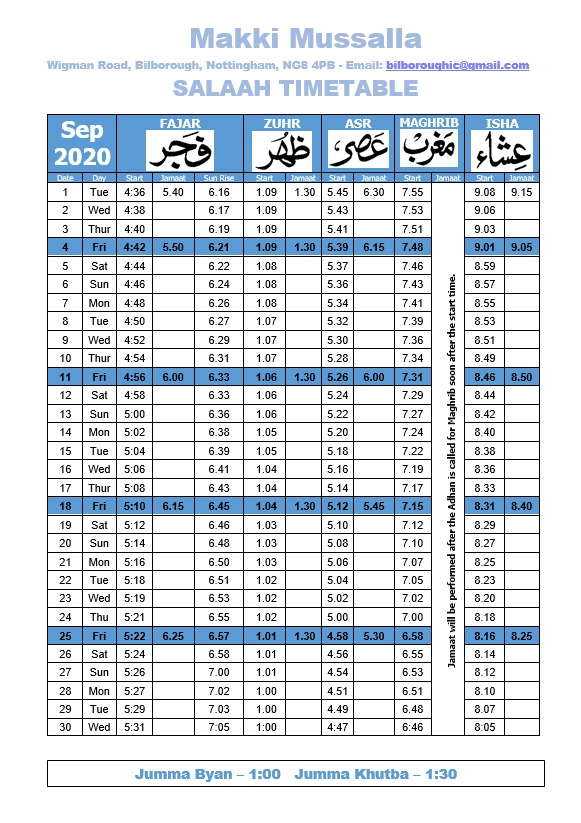
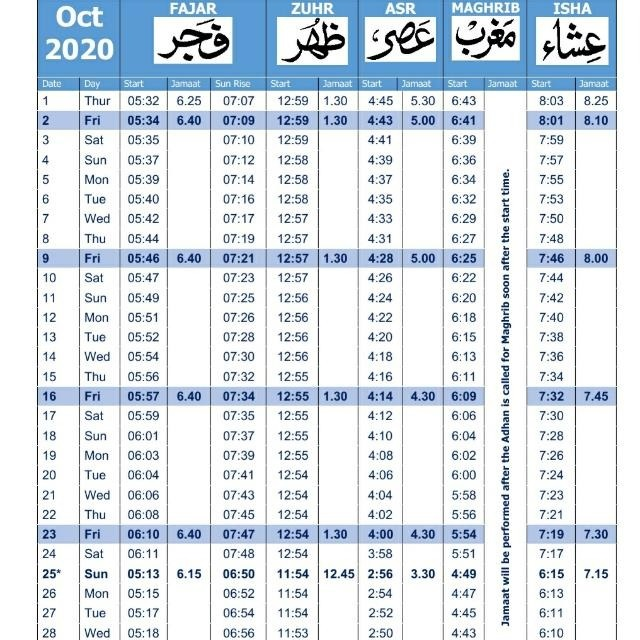
Update prayer timetable and Google Maps link

diff --git a/src/App.js b/src/App.js
@@ -1,8 +1,6 @@
 import React from 'react';
 import './App.css';
-import NavButton from "./components/NavButton";
 import NavBar from "./components/NavBar";
-import TabBar from "./components/TabBar";
 
 import headerLogo from "./images/header-logo.png"
 import logo from "./images/logo.png"
@@ -37,17 +35,21 @@ function App() {
             {/*    <NavButton text="About Us" />*/}
             {/*</div>*/}
 
-            <TabBar>
+            <NavBar>
                 <div label="Home">
                     <div className="translucent-background">
                         <div id="about-us">
                             <p>
-                                <strong>Assalam-o-alaikum wa rahimtullah wa barakaatu hu</strong><br/><br/>
+                                <strong>Assalam-o-alaikum wa rahimtullah wa barakaatu
+                                    hu</strong><br/><br/>
 
-                                We are a registered charity with the Charity Commission since 2018.<br/><br/>
+                                We are a registered charity with the Charity Commission since
+                                2018.<br/><br/>
 
-                                Trustees have been very actively looking to buy a place for the masjid
-                                for the last 2-3 years prior to 2018 but no suitable options were available
+                                Trustees have been very actively looking to buy a place for the
+                                masjid
+                                for the last 2-3 years prior to 2018 but no suitable options were
+                                available
                                 until Bilborough Baptist Church was put on sale.<br/><br/>
 
                                 We faced very tough competition from other interested parties keen
@@ -56,41 +58,53 @@ function App() {
 
                                 Acquiring the substantial amounts required to pay towards building
                                 and other expenses was the biggest challenge but with help of Allah
-                                SWT and the generosity of a few individual it was possible to buy the church.<br/><br/>
+                                SWT and the generosity of a few individual it was possible to buy
+                                the church.<br/><br/>
 
                                 We completed the purchase on the 14th Dec 2018 and our journey of
                                 silent struggle arrived to its first stop with the help of Allah SWT
-                                and also the monetary contributions from brothers/sisters who sacrificed
+                                and also the monetary contributions from brothers/sisters who
+                                sacrificed
                                 their worldly needs and made contribution into this great
                                 cause.<br/>
 
                                 Sadly; humanity has forgotten the purpose of their creation today,
-                                their master and the path of the prophets/messengers who were deputed to
-                                remind us how to spend life in this dunyia and prepare for life of the 
-                                unforeseen era we are heading to. Let’s make a pledge today to comeback to
-                                the forgotten path and follow the guidance of the Quran, Sunnah and the 
+                                their master and the path of the prophets/messengers who were
+                                deputed to
+                                remind us how to spend life in this dunyia and prepare for life of
+                                the
+                                unforeseen era we are heading to. Let’s make a pledge today to
+                                comeback to
+                                the forgotten path and follow the guidance of the Quran, Sunnah and
+                                the
                                 path of Sehabah Rizwan ullalh ha ajmaeen.<br/><br/>
 
 
                                 The concept of this masjid is to use the platform to learn and
                                 connect to Allah, correct ourselves and invite others which is a
-                                prime duty assigned to us, being followers of the last and final messenger.
+                                prime duty assigned to us, being followers of the last and final
+                                messenger.
                                 Our success of this Duniya and Akhira is left in the Deen.<br/>
 
                                 On one side we have a number of challenges but on the other hand we
-                                have a big opportunity to work for our present and future generations.<br/>
+                                have a big opportunity to work for our present and future
+                                generations.<br/>
 
                                 In order to achieve these targets; we need a platform and also a
                                 continuous fiqar for Deen according to the path of Quran, Sunnah of
-                                Prophet PUBH and golden life of Sehabah Rizwan ullah ha ajmaeen.<br/><br/>
+                                Prophet PUBH and golden life of Sehabah Rizwan ullah ha
+                                ajmaeen.<br/><br/>
 
-                                To proceed on these lines; we have the following achievement and plans
+                                To proceed on these lines; we have the following achievement and
+                                plans
                                 which we would like to share with you and request your ownership,
                                 patronage, and support throughout each stage:<br/>
 
                                 <ul>
-                                    <li>Establish five-time congregational prayer, weekly Juma and Eid
-                                        prayers already started under the platform of Makki Masjid, Alhamdulillah.
+                                    <li>Establish five-time congregational prayer, weekly Juma and
+                                        Eid
+                                        prayers already started under the platform of Makki Masjid,
+                                        Alhamdulillah.
                                     </li>
                                     <li>Afternoon/Evening Madrasa for Tajweed/Hifz running since
                                         the middle of 2020.
@@ -99,8 +113,10 @@ function App() {
                                         needs of the community.
                                     </li>
                                     <li>Dawah Centre – to host activities to spread word of Allah
-                                        SWT using all possible traditional and new state-of-the-art methods
-                                        including internet and social media sources under the guidance of Quran, Sunnah
+                                        SWT using all possible traditional and new state-of-the-art
+                                        methods
+                                        including internet and social media sources under the
+                                        guidance of Quran, Sunnah
                                         as directed by respected Ulemahs/scholars/elders.
                                     </li>
                                     <li>Community gathering program and delivering sessions on
@@ -109,7 +125,9 @@ function App() {
                                     <li>Walk-in centre for nonbelievers to provide them a glimpse of
                                         the basics of Islam.
                                     </li>
-                                    <li>Janaza/Gusal/dead body storage and Janaza prayer facilities (long term)</li>
+                                    <li>Janaza/Gusal/dead body storage and Janaza prayer facilities
+                                        (long term)
+                                    </li>
                                 </ul>
 
                                 Jazak Allah khairun<br/><br/>
@@ -123,17 +141,23 @@ function App() {
                                         (Verse: 16:125)
                                     </li>
                                     <li>
-                                    ولتكن منكم أمة يدعون إلى الخير ويأمرون بالمعروف وينهون عن المنكر
-                                    And there has to be a group of people from among you who call
-                                    towards
-                                        good and prevent from evil. (Verse: 3:104)</li>
-                                   <li>
-                                    ومن أحسن قولا ممن دعا إلى الله وعمل صالحا وقال إنني من المسلمين
-                                    And who is better in utterance than the one who called people
-                                    towards
-                                    Allah, and acts righteously and says, “I am one of those who
-                                    submit
-                                       themselves (to Allah Ta’ala). (Verse: 41:33)</li>
+                                        ولتكن منكم أمة يدعون إلى الخير ويأمرون بالمعروف وينهون عن
+                                        المنكر
+                                        And there has to be a group of people from among you who
+                                        call
+                                        towards
+                                        good and prevent from evil. (Verse: 3:104)
+                                    </li>
+                                    <li>
+                                        ومن أحسن قولا ممن دعا إلى الله وعمل صالحا وقال إنني من
+                                        المسلمين
+                                        And who is better in utterance than the one who called
+                                        people
+                                        towards
+                                        Allah, and acts righteously and says, “I am one of those who
+                                        submit
+                                        themselves (to Allah Ta’ala). (Verse: 41:33)
+                                    </li>
                                 </ol>
                             </p>
                         </div>
@@ -156,11 +180,14 @@ function App() {
                         Account No.: 80859356
                     </p>
                 </div>
-                <div label="Contact Us" className="translucent-background">
-                    <p>Email: info@bilboroughislamiccentre.org.uk</p>
-                    <p>Address: Wigman Road, Bilborough, Nottingham, NG8 4PB</p>
+                <div label="Contact Us">
+                    <div className="text-tab">
+                        <p>Email: info@bilboroughislamiccentre.org.uk</p>
+                        <p>Address: Wigman Road, Bilborough, Nottingham, NG8 4PB</p>
+                        <p>Visit Us: <a href="https://goo.gl/maps/8s8r4yyBmF2P36UN8">Find us on Google Maps</a></p>
+                    </div>
                 </div>
-            </TabBar>
+            </NavBar>
 
         </div>
     );

diff --git a/src/components/NavBar.js b/src/components/NavBar.js
@@ -1,26 +1,61 @@
-import React from "react";
+import React, {Component} from 'react';
+import PropTypes from 'prop-types';
+import NavButton from './NavButton';
 
-function NavBar() {
-
-    const button = (<button className="nav-button">Two</button> )
-
-    // ToDo: generate the buttons from props, props should have the openTab(...) thing from the limewire website to open tabs within the page and also the text for the button
-    // ToDo: get rid of NavButton if it's not needed
-    // let navButtons = [(<button className="nav-button">One</button>), (<button className="nav-button">Two</button>)]
-    let navButtonSpec = [["Home", "home"], ["About Us", "about-us"], ["Prayer Timetable", "time-table"]]
-    let navButtons = []
-
-    for (const x in navButtonSpec) {
-        // navButtons.push((<button className="nav-button" onClick={openTab(event, {x[0]}} )
-        navButtons.push(<button className="nav-button" onClick="openTab(event, {x[0]}"></button> )
+class NavBar extends Component {
+    static propTypes = {
+        children: PropTypes.instanceOf(Array).isRequired,
     }
 
-    return (
-        <div id="nav-bar">
-            {navButtons}
-            <button className="nav-button" onClick="openTab(event, ">Hello</button>
-        </div>
-    )
+    constructor(props) {
+        super(props);
+
+        // Sets initial state so the first tab is active initially
+        this.state = {
+            activeTab: this.props.children[0].props.label,
+        };
+    }
+
+    // Update the app state to the tab just clicked by the user
+    onClickTabItem = (tab) => {
+        this.setState({ activeTab: tab });
+    }
+
+    // Keep track of which tab is active and display a list of tabs with the content of the
+    // current active tab
+    render() {
+        const {
+            onClickTabItem,
+            props: { children},
+            state: { activeTab },
+        } = this;
+
+        return (
+            <div className="tabs">
+                <ol className="tab-list">
+                    {children.map((child) => {
+                        const { label } = child.props;
+
+                        return (
+                            <NavButton
+                                activeTab={activeTab}
+                                key={label}
+                                label={label}
+                                onClick={onClickTabItem}
+                            />
+                        );
+                    })}
+                </ol>
+
+                <div className="tab-content">
+                    {children.map((child) => {
+                        if (child.props.label !== activeTab) return undefined;
+                        return child.props.children
+                    })}
+                </div>
+            </div>
+        )
+    }
 }
 
 export default NavBar

diff --git a/src/components/NavButton.js b/src/components/NavButton.js
@@ -1,13 +1,43 @@
-import React from "react";
+import React, {Component} from "react";
+// PropTypes is a special prop-types property used to run type-checking on props in a component
+import PropTypes from 'prop-types';
 
-function NavButton(props) {
+class NavButton extends Component {
+    static propTypes = {
+        activeTab: PropTypes.string.isRequired,
+        label: PropTypes.string.isRequired,
+        onClick: PropTypes.func.isRequired,
+    };
 
-    return (
-        <div className="nav-button">
-            <p>{props.text}</p>
-        </div>
-    )
+    onClick = () => {
+        const {label, onClick} = this.props;
+        onClick(label);
+    }
 
+    render() {
+        const {
+            onClick,
+            props: {
+                activeTab,
+                label,
+            },
+        } = this;
+
+        let className = 'tab-list-item';
+
+        if (activeTab === label) {
+            className += ' tab-list-active';
+        }
+
+        return (
+            <li
+                className={className}
+                onClick={onClick}
+            >
+                {label}
+            </li>
+        );
+    }
 }
 
 export default NavButton

diff --git a/src/App.css b/src/App.css
@@ -113,6 +113,14 @@ p {
     color: white;
 }
 
+.text-tab {
+    margin-left: auto;
+    margin-right: auto;
+    text-align: justify;
+    width: 75%;
+    color: white;
+}
+
 #nav-bar {
     background-color: rgb(69, 31, 85);
     width: 100%;
